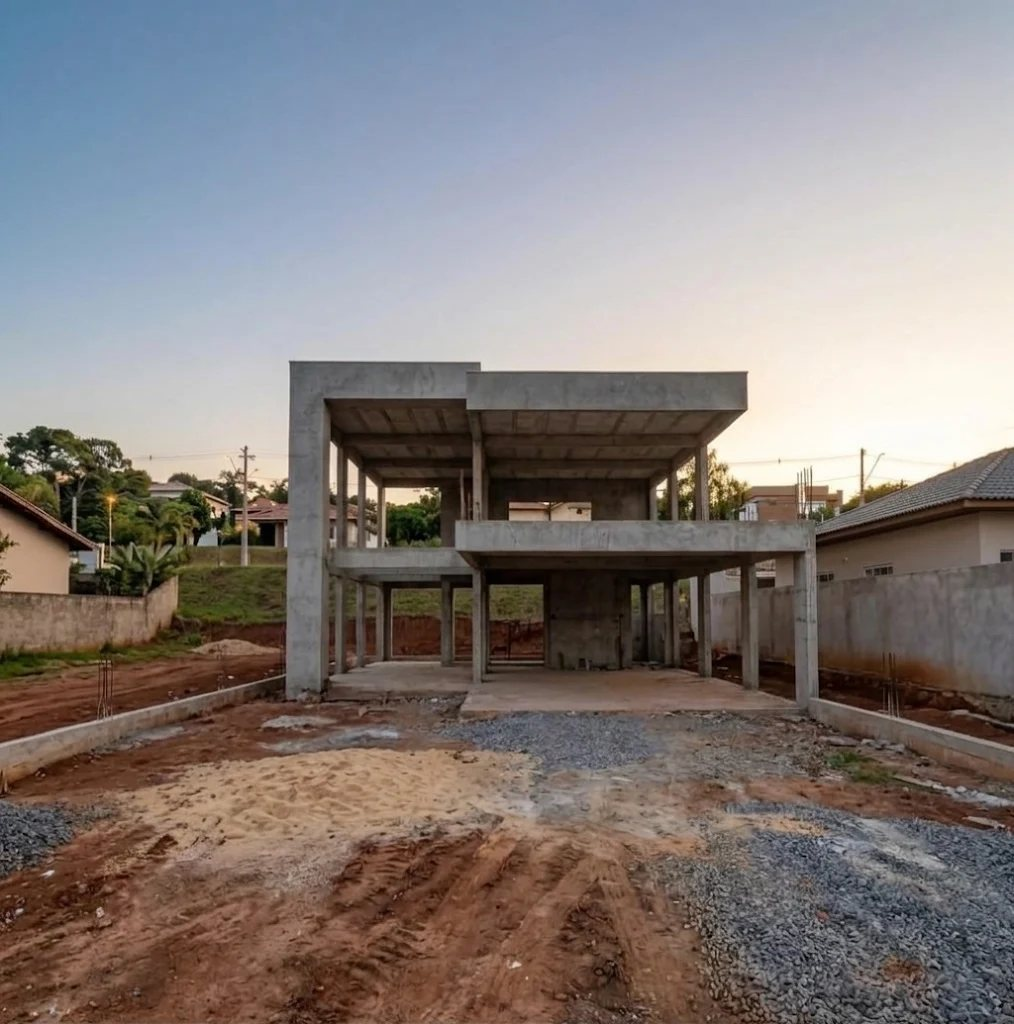
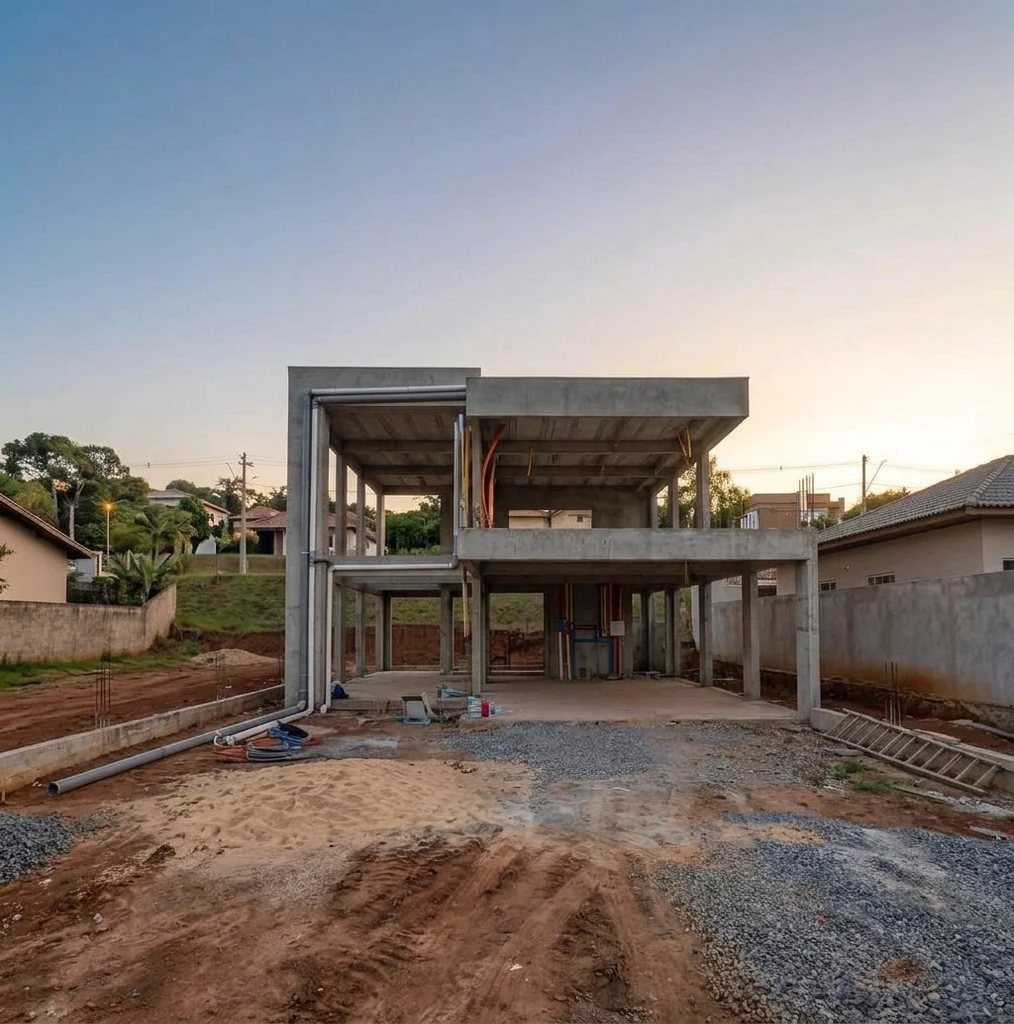
Troca a segunda estrutura pela versão com instalações
Claude-Session: https://claude.ai/code/session_01DdLhVtjRNJFwW8CKP39bG6

Changed region(s): [[0.0, 0.3438, 1.0, 1.0]]

diff --git a/index.html b/index.html
@@ -218,8 +218,8 @@ footer a{color:#CFD6DE}
       </div>
       <div class="ba sq" style="--pos:50%">
         <img src="depois-fachada-2.jpg" alt="Residência pronta de dois pavimentos com fachada em concreto e madeira" loading="lazy">
-        <img class="before" src="antes-estrutura-2.jpg" alt="Estrutura em concreto da mesma residência, com pilares, vigas e laje em balanço" loading="lazy">
-        <span class="lb l">Estrutura</span><span class="lb r">Fachada</span>
+        <img class="before" src="antes-estrutura-2.jpg?v=3" alt="Estrutura em concreto da mesma residência com as instalações elétricas e hidráulicas aparentes" loading="lazy">
+        <span class="lb l">Estrutura e instalações</span><span class="lb r">Fachada</span>
         <span class="bar" aria-hidden="true"><i>‹ ›</i></span>
         <span class="hint2">arraste para comparar</span>
         <input type="range" min="0" max="100" value="50" step="1" aria-label="Comparar estrutura e fachada da residência">
